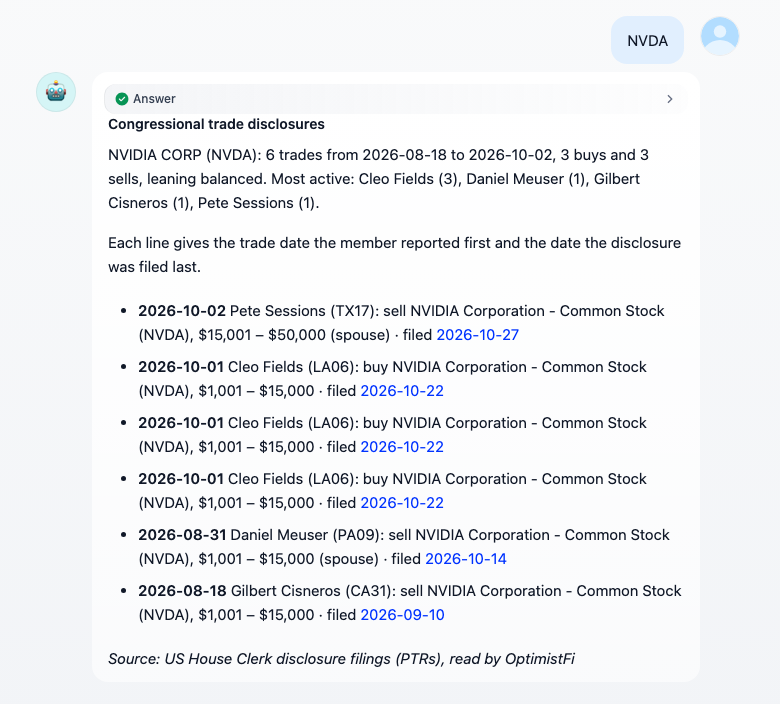
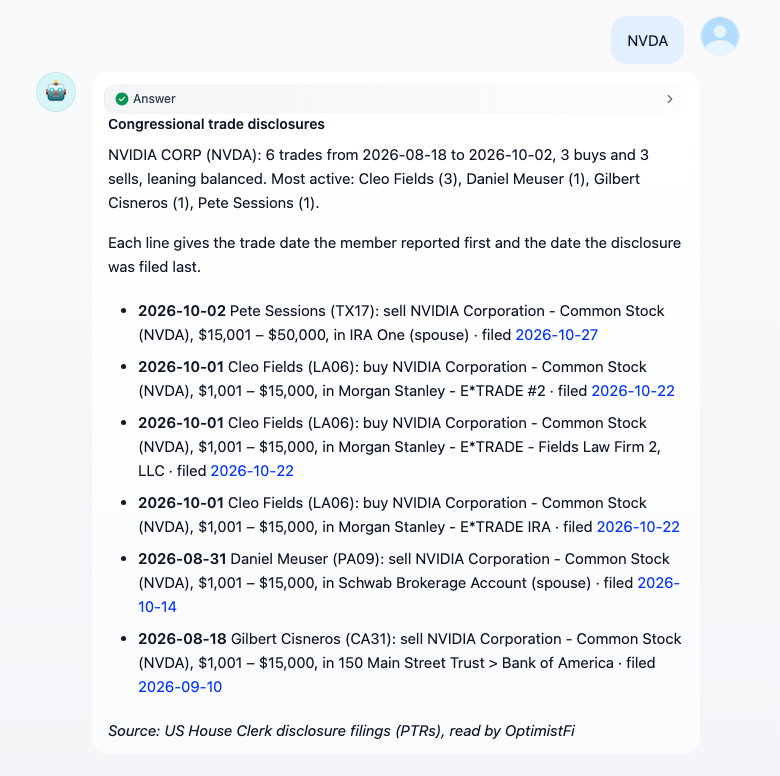
Congress Trades: each line names the account the trade was made in (0.1.1)
The House filing's SUBHOLDING OF line now reaches the summary, so trades
alike in all else, in two accounts, read as two trades. Exact amounts and
"Over $X" read as the filing wrote them, and a reply counts the trades
whose account is not read yet.

diff --git a/optimistfi/render.py b/optimistfi/render.py
@@ -175,9 +175,12 @@ def insider_trades(records: Sequence[Any]) -> Summary:
 
 
 def _amount(data: dict[str, Any]) -> str:
+    """The filing's range; an exact amount is both bounds, and "Over $X" has no top."""
     low, high = data.get("amount_low"), data.get("amount_high")
+    if fmt.is_num(low) and high is None:
+        return f"over {fmt.usd_exact(low)}"
     if fmt.is_num(low) and fmt.is_num(high):
-        return f"{fmt.usd_exact(low)} – {fmt.usd_exact(high)}"
+        return fmt.usd_exact(low) if low == high else f"{fmt.usd_exact(low)} – {fmt.usd_exact(high)}"
     return DASH
 
 
@@ -203,11 +206,15 @@ def congress_trades(records: Sequence[Any]) -> Summary:
             f"({r['data'].get('state_district') or r['data'].get('chamber')}): "
             f"{r['data'].get('txn_type') or ('detail not parsed from a paper filing' if r['data'].get('index_only') else 'trade')} "
             f"{fmt.clip(r['data'].get('asset'), 70)}, {_amount(r['data'])}"
+            + (f", in {r['data']['account']}" if r["data"].get("account") else "")
             + (f" ({r['data']['owner']})" if r["data"].get("owner") else "")
             + f" · filed {fmt.link(str(r.get('as_of')), source_url(r))}"
             for r in trades[:25]
         )
     )
+    unread = sum(1 for r in trades[:25] if r["data"].get("account_not_read"))
+    if unread:
+        lines.append(f"{unread} of these trades come from filings whose account names are not read yet.")
     lines.append("_Source: US House Clerk disclosure filings (PTRs), read by OptimistFi_")
     variables = {
         "as_of": trades[0].get("as_of"),

diff --git a/tests/test_render.py b/tests/test_render.py
@@ -67,6 +67,42 @@ def test_insider_rows_carry_trade_and_filing_dates():
     ) in text
 
 
+def test_congress_lines_name_the_account_so_look_alike_trades_read_as_separate():
+    text = summarize("congress_nvda").text
+
+    # Three buys alike in all else, one in each of Cleo Fields' accounts (House doc 20035669).
+    for account in (
+        "Morgan Stanley - E*TRADE #2",
+        "Morgan Stanley - E*TRADE - Fields Law Firm 2, LLC",
+        "Morgan Stanley - E*TRADE IRA",
+    ):
+        assert (
+            f"- **2026-10-01** Cleo Fields (LA06): buy NVIDIA Corporation - Common Stock (NVDA), $1,001 – $15,000, in {account}"
+            " · filed [2026-10-22](https://disclosures-clerk.house.gov/public_disc/ptr-pdfs/2026/20035669.pdf)"
+        ) in text
+    assert "not read yet" not in text
+
+
+def test_congress_counts_the_trades_whose_account_is_not_read_yet():
+    text = summarize("congress_ko").text
+
+    assert "6 of these trades come from filings whose account names are not read yet." in text
+
+
+@pytest.mark.parametrize(
+    ("low", "high", "text"),
+    [
+        (1001, 15000, "$1,001 – $15,000"),
+        (15, 15, "$15"),
+        (2722.5, 2722.5, "$2,722.50"),
+        (1000000, None, "over $1,000,000"),
+        (None, None, "—"),
+    ],
+)
+def test_house_amounts_read_as_the_filing_wrote_them(low, high, text):
+    assert render._amount({"amount_low": low, "amount_high": high}) == text
+
+
 def test_projected_earnings_reads_as_an_estimate():
     summary = summarize("calendar_aapl")
 

diff --git a/optimistfi/client.py b/optimistfi/client.py
@@ -16,7 +16,7 @@ ENDPOINT = "https://mcp.optimistfi.com/mcp"
 HEADERS = {
     "Content-Type": "application/json",
     "Accept": "application/json, text/event-stream",
-    "User-Agent": "optimistfi-dify-plugin/0.1.0",
+    "User-Agent": "optimistfi-dify-plugin/0.1.1",
 }
 TIMEOUT_SECONDS = 100.0
 

diff --git a/readme/README_pt_BR.md b/readme/README_pt_BR.md
@@ -5,7 +5,7 @@ Divulgações de empresas dos EUA como ferramentas para agentes e fluxos do Dify
 **Autor:** [OptimistFi](https://optimistfi.com) · **Código-fonte:** [github.com/OptimistFi/dify-plugin-optimistfi](https://github.com/OptimistFi/dify-plugin-optimistfi) · **Contato:** hello@optimistfi.com
 
 <div align="center">
-    <img src="../_assets/screenshot-congress.png" alt="Resposta de um Chatflow: divulgações de negociações de NVDA por membros da Câmara, com compras, vendas e cada registro com link" width="95%"/>
+    <img src="../_assets/screenshot-congress.png" alt="Resposta de um Chatflow: divulgações de negociações de NVDA por membros da Câmara, com compras, vendas, a conta de cada operação e cada registro com link" width="95%"/>
 </div>
 
 ## Visão geral
@@ -21,7 +21,7 @@ Não há nada a configurar: nenhuma chave de API, credencial ou etapa de autoriz
 | Ferramenta | O que responde |
 |---|---|
 | **Negociações de insiders** | Os registros Form 4 de uma empresa dos EUA na SEC EDGAR: quem, cargo, código da operação, ações e valor em dólares, com a data do negócio e a data em que se tornou público. Compras e vendas no mercado vêm primeiro, depois concessões, exercícios de opções e doações. |
-| **Negociações do Congresso** | Divulgações de ações da Câmara dos EUA sob o STOCK Act, por ticker ou por membro. Uma resposta por ticker começa com compras, vendas e os membros mais ativos; cada linha leva ao registro. |
+| **Negociações do Congresso** | Divulgações de ações da Câmara dos EUA sob o STOCK Act, por ticker ou por membro. Uma resposta por ticker começa com compras, vendas e os membros mais ativos; cada linha indica a conta em que a operação foi feita e leva ao registro. |
 | **Registros na SEC** | Eventos 8-K, comunicados de resultados, o texto dos 8-Ks recentes e sinais de alerta de governança (registros atrasados, troca de auditor, concentração de vendas de insiders). |
 | **Calendário de resultados** | A próxima data de resultados projetada pelo ritmo de registros da própria empresa, marcada como estimativa com a sua base, e as leituras de ensaios clínicos quando a empresa os tem. |
 

diff --git a/README.md b/README.md
@@ -10,7 +10,7 @@ US company disclosures as tools for Dify agents and workflows: insider trades fr
 **Author:** [OptimistFi](https://optimistfi.com) · **Source:** [github.com/OptimistFi/dify-plugin-optimistfi](https://github.com/OptimistFi/dify-plugin-optimistfi) · **Contact:** hello@optimistfi.com
 
 <div align="center">
-    <img src="_assets/screenshot-congress.png" alt="A Chatflow answer: House members' NVDA trade disclosures, with buys, sells and each filing linked" width="95%"/>
+    <img src="_assets/screenshot-congress.png" alt="A Chatflow answer: House members' NVDA trade disclosures, with buys, sells, the account of each trade and each filing linked" width="95%"/>
 </div>
 
 ## Overview
@@ -43,7 +43,7 @@ The plugin connects to `https://mcp.optimistfi.com/mcp` over HTTPS, so a self-ho
 | Tool | What it answers |
 |---|---|
 | **Insider Trades** | A US company's Form 4 filings from SEC EDGAR: who, role, Form 4 code, shares and dollar value, with the trade date and the date it became public. Open-market buys and sells come first, then grants, option exercises and gifts. |
-| **Congress Trades** | US House stock disclosures under the STOCK Act, by ticker or by member. A ticker answer opens with buys, sells and the most active members; each line links to its filing. |
+| **Congress Trades** | US House stock disclosures under the STOCK Act, by ticker or by member. A ticker answer opens with buys, sells and the most active members; each line names the account the trade was made in and links to its filing. |
 | **SEC Filings** | 8-K events, earnings press releases, the text of recent 8-Ks, and governance red flags (late filings, auditor changes, insider selling clusters). |
 | **Earnings Calendar** | The next earnings date projected from the company's own filing cadence, labeled as an estimate with its basis, and clinical trial readouts where a company has them. |
 
